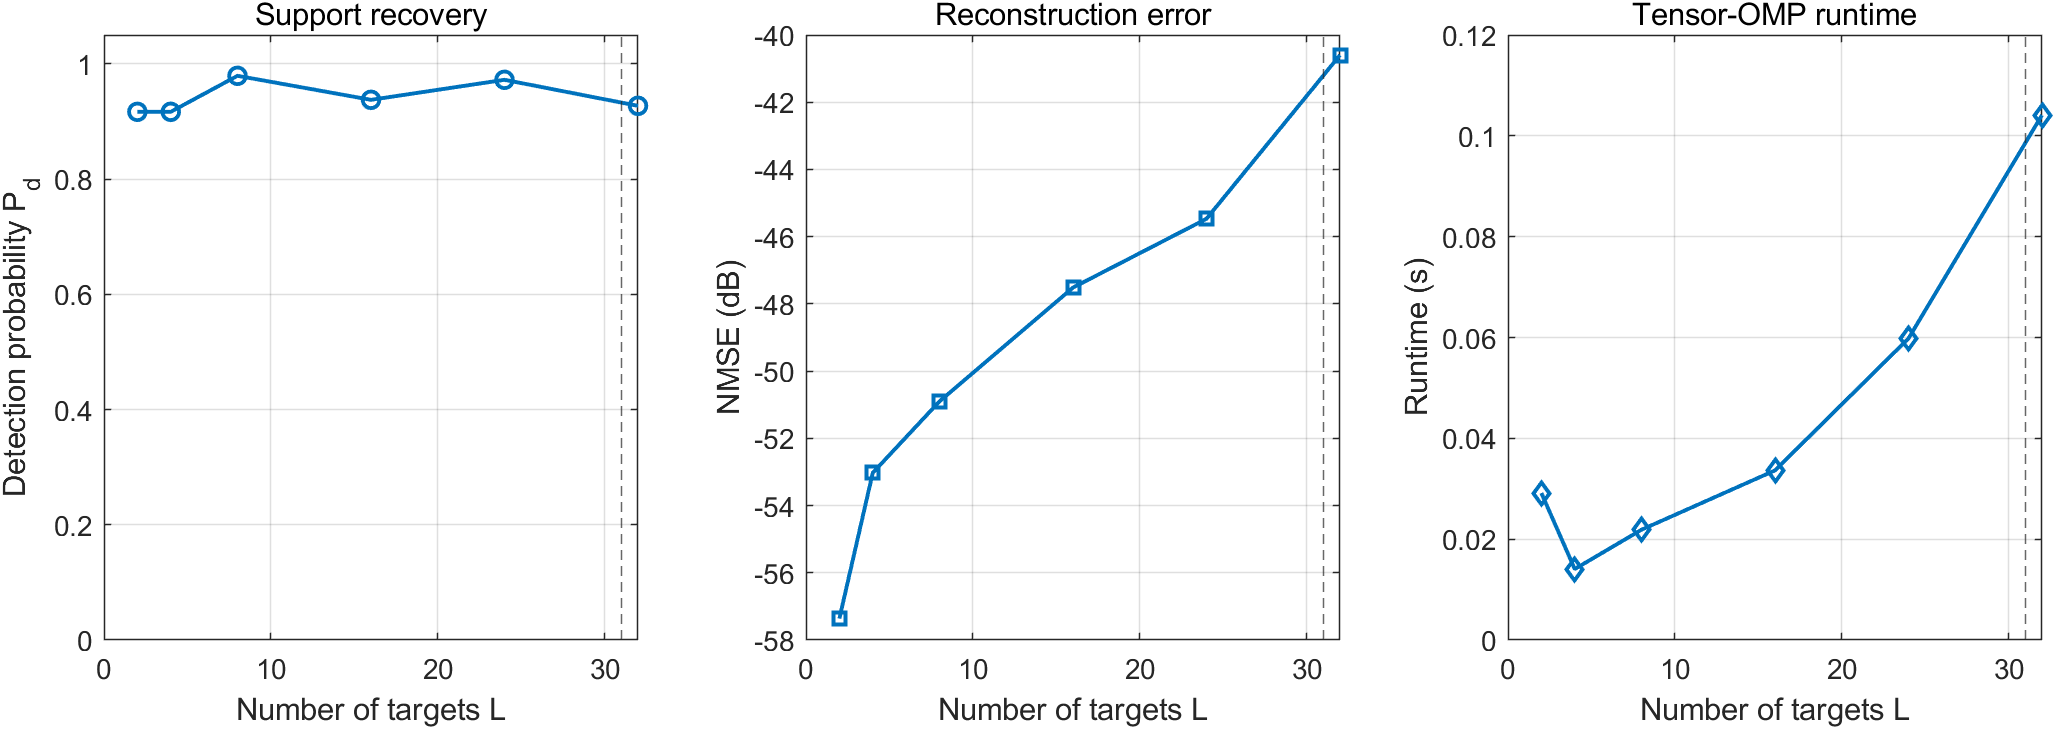
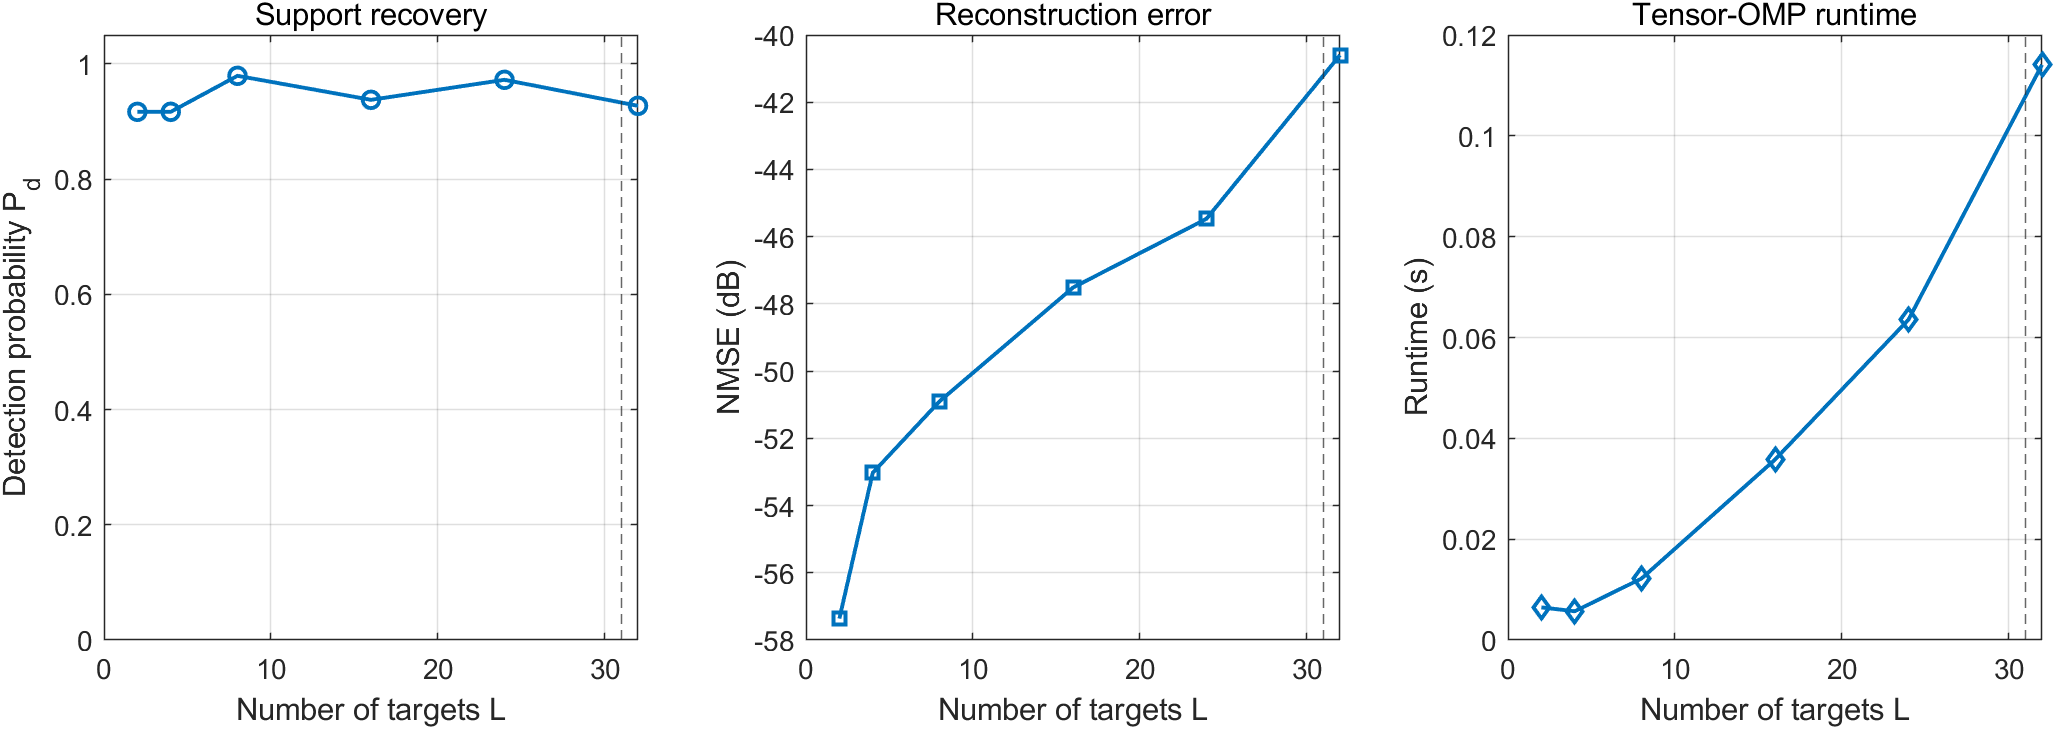
Add v2.2 supplemental experiment manifest

diff --git a/eval/run_all_v2_2_supplemental_experiments.m b/eval/run_all_v2_2_supplemental_experiments.m
@@ -1,0 +1,134 @@
+function run_all_v2_2_supplemental_experiments()
+%RUN_ALL_V2_2_SUPPLEMENTAL_EXPERIMENTS
+% Reproduce the lightweight v2.2 supplemental experiment package.
+
+rootDir = fileparts(fileparts(mfilename('fullpath')));
+resultsDir = fullfile(rootDir, 'Results');
+if ~exist(resultsDir, 'dir')
+    mkdir(resultsDir);
+end
+
+experiments = {
+    'Oversampling/off-grid ablation', ...
+    'Section 6.5.13(a)', ...
+    @run_oversampling_offgrid_ablation, ...
+    fullfile(resultsDir, 'oversampling_offgrid_ablation', 'summary.md');
+
+    'Kruskal identifiability ablation', ...
+    'Section 6.5.13(b,c)', ...
+    @run_kruskal_identifiability_ablation, ...
+    fullfile(resultsDir, 'kruskal_identifiability_ablation', 'summary.md');
+
+    'Off-grid mismatch lemma validation', ...
+    'Section 5.1.1 / Phase 3', ...
+    @run_offgrid_mismatch_lemma_validation, ...
+    fullfile(resultsDir, 'offgrid_mismatch_lemma', 'summary.md')
+};
+
+runRows = cell(size(experiments, 1), 5);
+for i = 1:size(experiments, 1)
+    name = experiments{i, 1};
+    section = experiments{i, 2};
+    fn = experiments{i, 3};
+    summaryPath = experiments{i, 4};
+
+    fprintf('=== Running %s ===\n', name);
+    tStart = tic;
+    fn();
+    elapsed = toc(tStart);
+    status = "ok";
+    if ~exist(summaryPath, 'file')
+        status = "missing-summary";
+    end
+    runRows(i, :) = {name, section, char(status), elapsed, relative_path(rootDir, summaryPath)};
+end
+
+runTable = cell2table(runRows, 'VariableNames', { ...
+    'experiment', 'outline_section', 'status', 'runtime_s', 'summary_path'});
+writetable(runTable, fullfile(resultsDir, 'v2_2_supplemental_manifest.csv'));
+write_manifest(rootDir, resultsDir, runTable);
+
+fprintf('Saved manifest to %s\n', fullfile(resultsDir, 'v2_2_supplemental_manifest.md'));
+end
+
+function write_manifest(rootDir, resultsDir, runTable)
+manifestPath = fullfile(resultsDir, 'v2_2_supplemental_manifest.md');
+fid = fopen(manifestPath, 'w');
+cleanup = onCleanup(@() fclose(fid));
+
+fprintf(fid, '# v2.2 Supplemental Experiment Manifest\n\n');
+fprintf(fid, 'This manifest summarizes the lightweight experiments added against `ISAC_DeepUnfolding_TechnicalDesign_v2.2.md`.\n');
+fprintf(fid, 'The runs are desktop reproducibility checks and early paper-upgrade evidence, not the final full-scale T-OMP-Net training campaign.\n\n');
+fprintf(fid, '## Reproduction Command\n\n');
+fprintf(fid, '```matlab\n');
+fprintf(fid, 'run(''eval/run_all_v2_2_supplemental_experiments.m'')\n');
+fprintf(fid, '```\n\n');
+
+fprintf(fid, '## Run Table\n\n');
+fprintf(fid, '| Experiment | Outline target | Status | Runtime (s) | Summary |\n');
+fprintf(fid, '|---|---|---:|---:|---|\n');
+for i = 1:height(runTable)
+    fprintf(fid, '| %s | %s | %s | %.2f | `%s` |\n', ...
+        runTable.experiment{i}, runTable.outline_section{i}, ...
+        runTable.status{i}, runTable.runtime_s(i), runTable.summary_path{i});
+end
+
+fprintf(fid, '\n## Key Evidence\n\n');
+write_oversampling_evidence(fid, resultsDir);
+write_kruskal_evidence(fid, resultsDir);
+write_mismatch_evidence(fid, resultsDir);
+
+fprintf(fid, '\n## Remaining Gaps\n\n');
+fprintf(fid, '- Full-size Tensor-OMP/T-OMP-Net training and inference pipeline is still pending.\n');
+fprintf(fid, '- CDL-A/C/D and DeepMIMO Set E cross-scene validation are still pending.\n');
+fprintf(fid, '- FLOPs/latency should be measured on the final implementation, not only the lightweight smoke scripts.\n');
+fprintf(fid, '- GitHub remote upload still requires an authenticated GitHub CLI session or a provided remote URL.\n');
+end
+
+function write_oversampling_evidence(fid, resultsDir)
+csvPath = fullfile(resultsDir, 'oversampling_offgrid_ablation', 'oversampling_offgrid_ablation.csv');
+if ~exist(csvPath, 'file')
+    fprintf(fid, '- Oversampling/off-grid: CSV missing.\n');
+    return;
+end
+
+T = readtable(csvPath);
+rho2 = T(T.rho == 2, :);
+gridNmse = mean(rho2.nmse_grid_db);
+offgridNmse = mean(rho2.nmse_offgrid_db);
+fprintf(fid, '- Oversampling/off-grid: at `rho=2`, bounded off-grid improves mean NMSE from `%.2f dB` to `%.2f dB` across the three scans.\n', ...
+    gridNmse, offgridNmse);
+end
+
+function write_kruskal_evidence(fid, resultsDir)
+csvPath = fullfile(resultsDir, 'kruskal_identifiability_ablation', 'kruskal_identifiability_ablation.csv');
+if ~exist(csvPath, 'file')
+    fprintf(fid, '- Kruskal identifiability: CSV missing.\n');
+    return;
+end
+
+T = readtable(csvPath);
+firstNmse = T.nmse_db(1);
+lastNmse = T.nmse_db(end);
+firstRuntime = T.avg_runtime_s(1);
+lastRuntime = T.avg_runtime_s(end);
+fprintf(fid, '- Kruskal/target-count: as `L` rises from `%d` to `%d`, NMSE changes from `%.2f dB` to `%.2f dB`, and runtime from `%.4f s` to `%.4f s`.\n', ...
+    T.num_targets(1), T.num_targets(end), firstNmse, lastNmse, firstRuntime, lastRuntime);
+end
+
+function write_mismatch_evidence(fid, resultsDir)
+csvPath = fullfile(resultsDir, 'offgrid_mismatch_lemma', 'offgrid_mismatch_lemma_summary.csv');
+if ~exist(csvPath, 'file')
+    fprintf(fid, '- Off-grid mismatch lemma: CSV missing.\n');
+    return;
+end
+
+T = readtable(csvPath);
+fprintf(fid, '- Off-grid mismatch lemma: median fitted/reference beta ratio is `%.4g`; median corrected/grid beta ratio is `%.4g`.\n', ...
+    median(T.grid_to_lemma_ratio), median(T.corrected_to_grid_ratio));
+end
+
+function rel = relative_path(rootDir, pathValue)
+rel = erase(string(pathValue), string(rootDir) + filesep);
+rel = strrep(char(rel), '\', '/');
+end

diff --git a/Results/v2_2_supplemental_manifest.md b/Results/v2_2_supplemental_manifest.md
@@ -1,0 +1,31 @@
+# v2.2 Supplemental Experiment Manifest
+
+This manifest summarizes the lightweight experiments added against `ISAC_DeepUnfolding_TechnicalDesign_v2.2.md`.
+The runs are desktop reproducibility checks and early paper-upgrade evidence, not the final full-scale T-OMP-Net training campaign.
+
+## Reproduction Command
+
+```matlab
+run('eval/run_all_v2_2_supplemental_experiments.m')
+```
+
+## Run Table
+
+| Experiment | Outline target | Status | Runtime (s) | Summary |
+|---|---|---:|---:|---|
+| Oversampling/off-grid ablation | Section 6.5.13(a) | ok | 9.75 | `Results/oversampling_offgrid_ablation/summary.md` |
+| Kruskal identifiability ablation | Section 6.5.13(b,c) | ok | 3.33 | `Results/kruskal_identifiability_ablation/summary.md` |
+| Off-grid mismatch lemma validation | Section 5.1.1 / Phase 3 | ok | 2.89 | `Results/offgrid_mismatch_lemma/summary.md` |
+
+## Key Evidence
+
+- Oversampling/off-grid: at `rho=2`, bounded off-grid improves mean NMSE from `-8.54 dB` to `-55.95 dB` across the three scans.
+- Kruskal/target-count: as `L` rises from `2` to `32`, NMSE changes from `-57.36 dB` to `-40.60 dB`, and runtime from `0.0065 s` to `0.1141 s`.
+- Off-grid mismatch lemma: median fitted/reference beta ratio is `0.4978`; median corrected/grid beta ratio is `0.01003`.
+
+## Remaining Gaps
+
+- Full-size Tensor-OMP/T-OMP-Net training and inference pipeline is still pending.
+- CDL-A/C/D and DeepMIMO Set E cross-scene validation are still pending.
+- FLOPs/latency should be measured on the final implementation, not only the lightweight smoke scripts.
+- GitHub remote upload still requires an authenticated GitHub CLI session or a provided remote URL.

diff --git a/Results/kruskal_identifiability_ablation/summary.md b/Results/kruskal_identifiability_ablation/summary.md
@@ -17,9 +17,9 @@ The local bound is lower than the paper-scale bound because this smoke run uses 
 
 | L | L/Lmax | P_d | exact support rate | NMSE (dB) | residual energy (dB) | runtime (s) |
 |---:|---:|---:|---:|---:|---:|---:|
-| 2 | 0.065 | 0.917 | 0.833 | -57.362 | -20.049 | 0.0291 |
-| 4 | 0.129 | 0.917 | 0.667 | -53.027 | -20.032 | 0.0141 |
-| 8 | 0.258 | 0.979 | 0.833 | -50.900 | -20.022 | 0.0219 |
-| 16 | 0.516 | 0.938 | 0.167 | -47.515 | -20.058 | 0.0336 |
-| 24 | 0.774 | 0.972 | 0.667 | -45.468 | -20.071 | 0.0598 |
-| 32 | 1.032 | 0.927 | 0.167 | -40.598 | -19.815 | 0.1041 |
+| 2 | 0.065 | 0.917 | 0.833 | -57.362 | -20.049 | 0.0065 |
+| 4 | 0.129 | 0.917 | 0.667 | -53.027 | -20.032 | 0.0057 |
+| 8 | 0.258 | 0.979 | 0.833 | -50.900 | -20.022 | 0.0122 |
+| 16 | 0.516 | 0.938 | 0.167 | -47.515 | -20.058 | 0.0358 |
+| 24 | 0.774 | 0.972 | 0.667 | -45.468 | -20.071 | 0.0635 |
+| 32 | 1.032 | 0.927 | 0.167 | -40.598 | -19.815 | 0.1141 |

diff --git a/paper/usable_content_inventory.md b/paper/usable_content_inventory.md
@@ -57,6 +57,12 @@
 - 输出目录：`Results/offgrid_mismatch_lemma/`
 - 输出文件：summary CSV、sample CSV、PNG、PDF、Markdown summary。
 
+新增 `eval/run_all_v2_2_supplemental_experiments.m`：
+
+- 一键复跑当前三组 v2.2 轻量补充实验。
+- 生成 `Results/v2_2_supplemental_manifest.md` 与 `Results/v2_2_supplemental_manifest.csv`。
+- 汇总每组实验的目标章节、状态、耗时、summary 路径和关键证据。
+
 ## 下一批实验优先级
 
 | 优先级 | 实验 | 对应大纲 | 目的 |

diff --git a/README.md b/README.md
@@ -20,6 +20,12 @@ From MATLAB:
 run('eval/run_oversampling_offgrid_ablation.m')
 ```
 
+To rerun all lightweight v2.2 supplemental experiments and regenerate the manifest:
+
+```matlab
+run('eval/run_all_v2_2_supplemental_experiments.m')
+```
+
 From PowerShell with the local MATLAB installation:
 
 ```powershell
@@ -61,6 +67,12 @@ It writes results to:
 
 ```text
 Results/offgrid_mismatch_lemma/
+```
+
+The combined evidence index is written to:
+
+```text
+Results/v2_2_supplemental_manifest.md
 ```
 
 ## Repository Layout
